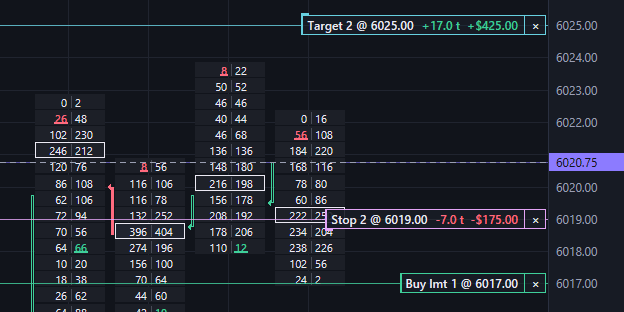
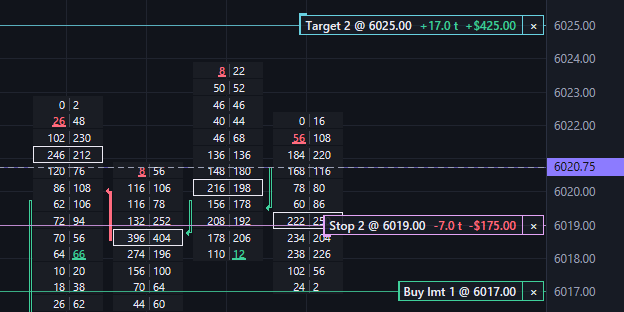
Screenshots from the v0.3.12 README: hero, light, tick chart, OG
The hero, its mobile crop and the OG image now come from the README's
chart-orders-footprint.png (current trade panel, ET clock, no hint bar);
light and tick-chart are the refreshed README shots. WebP (lossless) plus
256-color PNG, same sizes as before. Alt text matches what each shot shows.

diff --git a/index.html b/index.html
@@ -19,7 +19,7 @@
 <meta property="og:image" content="https://linesterminal.com/assets/og.png">
 <meta property="og:image:width" content="1200">
 <meta property="og:image:height" content="630">
-<meta property="og:image:alt" content="Lines Terminal footprint chart with order lines beside a DOM and time and sales">
+<meta property="og:image:alt" content="Lines Terminal in the dark theme: a footprint chart with a long paper position, its stop and target lines and a working buy limit, beside the DOM and time and sales">
 <meta name="twitter:card" content="summary_large_image">
 <meta name="twitter:title" content="Lines Terminal: the futures terminal that keeps up">
 <meta name="twitter:description" content="Native charts, DOM and order flow for discretionary and prop-firm traders. Built in Rust. Pre-alpha, paper trading only.">
@@ -173,7 +173,7 @@ footer .sp{flex:1}
     <source media="(max-width: 640px)" type="image/webp" srcset="/assets/hero-mobile.webp" width="624" height="312">
     <source media="(max-width: 640px)" srcset="/assets/hero-mobile.png" width="624" height="312">
     <source type="image/webp" srcset="/assets/hero.webp" width="1600" height="900">
-    <img src="/assets/hero.png" width="1600" height="900" fetchpriority="high" decoding="async" alt="Lines Terminal: footprint chart with a long position, stop and target order lines, beside a DOM and time and sales">
+    <img src="/assets/hero.png" width="1600" height="900" fetchpriority="high" decoding="async" alt="Lines Terminal in the dark theme: a footprint chart with a long paper position, its stop and target lines and a working buy limit, beside the DOM with its trade panel and time and sales">
    </picture>
   </a>
   <div class="small tap">Tap the image for the full screenshot</div>
@@ -231,8 +231,8 @@ footer .sp{flex:1}
      <li>Strategies run on paper through the same rules as your clicks</li></ul></div>
   </div>
   <div class="two">
-   <figure><div class="shot"><picture><source type="image/webp" srcset="/assets/tick-chart.webp"><img src="/assets/tick-chart.png" width="1200" height="700" loading="lazy" decoding="async" alt="A 500-tick candlestick chart with VWAP bands"></picture></div><figcaption>Tick charts from counted trades</figcaption></figure>
-   <figure><div class="shot"><picture><source type="image/webp" srcset="/assets/light.webp"><img src="/assets/light.png" width="1600" height="900" loading="lazy" decoding="async" alt="Lines in the light theme: a chart with order lines beside the DOM"></picture></div><figcaption>Light, dark and colorblind palettes, all WCAG AA</figcaption></figure>
+   <figure><div class="shot"><picture><source type="image/webp" srcset="/assets/tick-chart.webp"><img src="/assets/tick-chart.png" width="1200" height="700" loading="lazy" decoding="async" alt="Dark theme: a 500-trade tick chart with VWAP bands, external levels and a ruler measurement"></picture></div><figcaption>Tick charts from counted trades</figcaption></figure>
+   <figure><div class="shot"><picture><source type="image/webp" srcset="/assets/light.webp"><img src="/assets/light.png" width="1600" height="900" loading="lazy" decoding="async" alt="Light theme: a 5-minute chart with a split volume pane and a paper position, beside the DOM and the Positions pane"></picture></div><figcaption>Light, dark and colorblind palettes, all WCAG AA</figcaption></figure>
   </div>
  </div></section>
 
